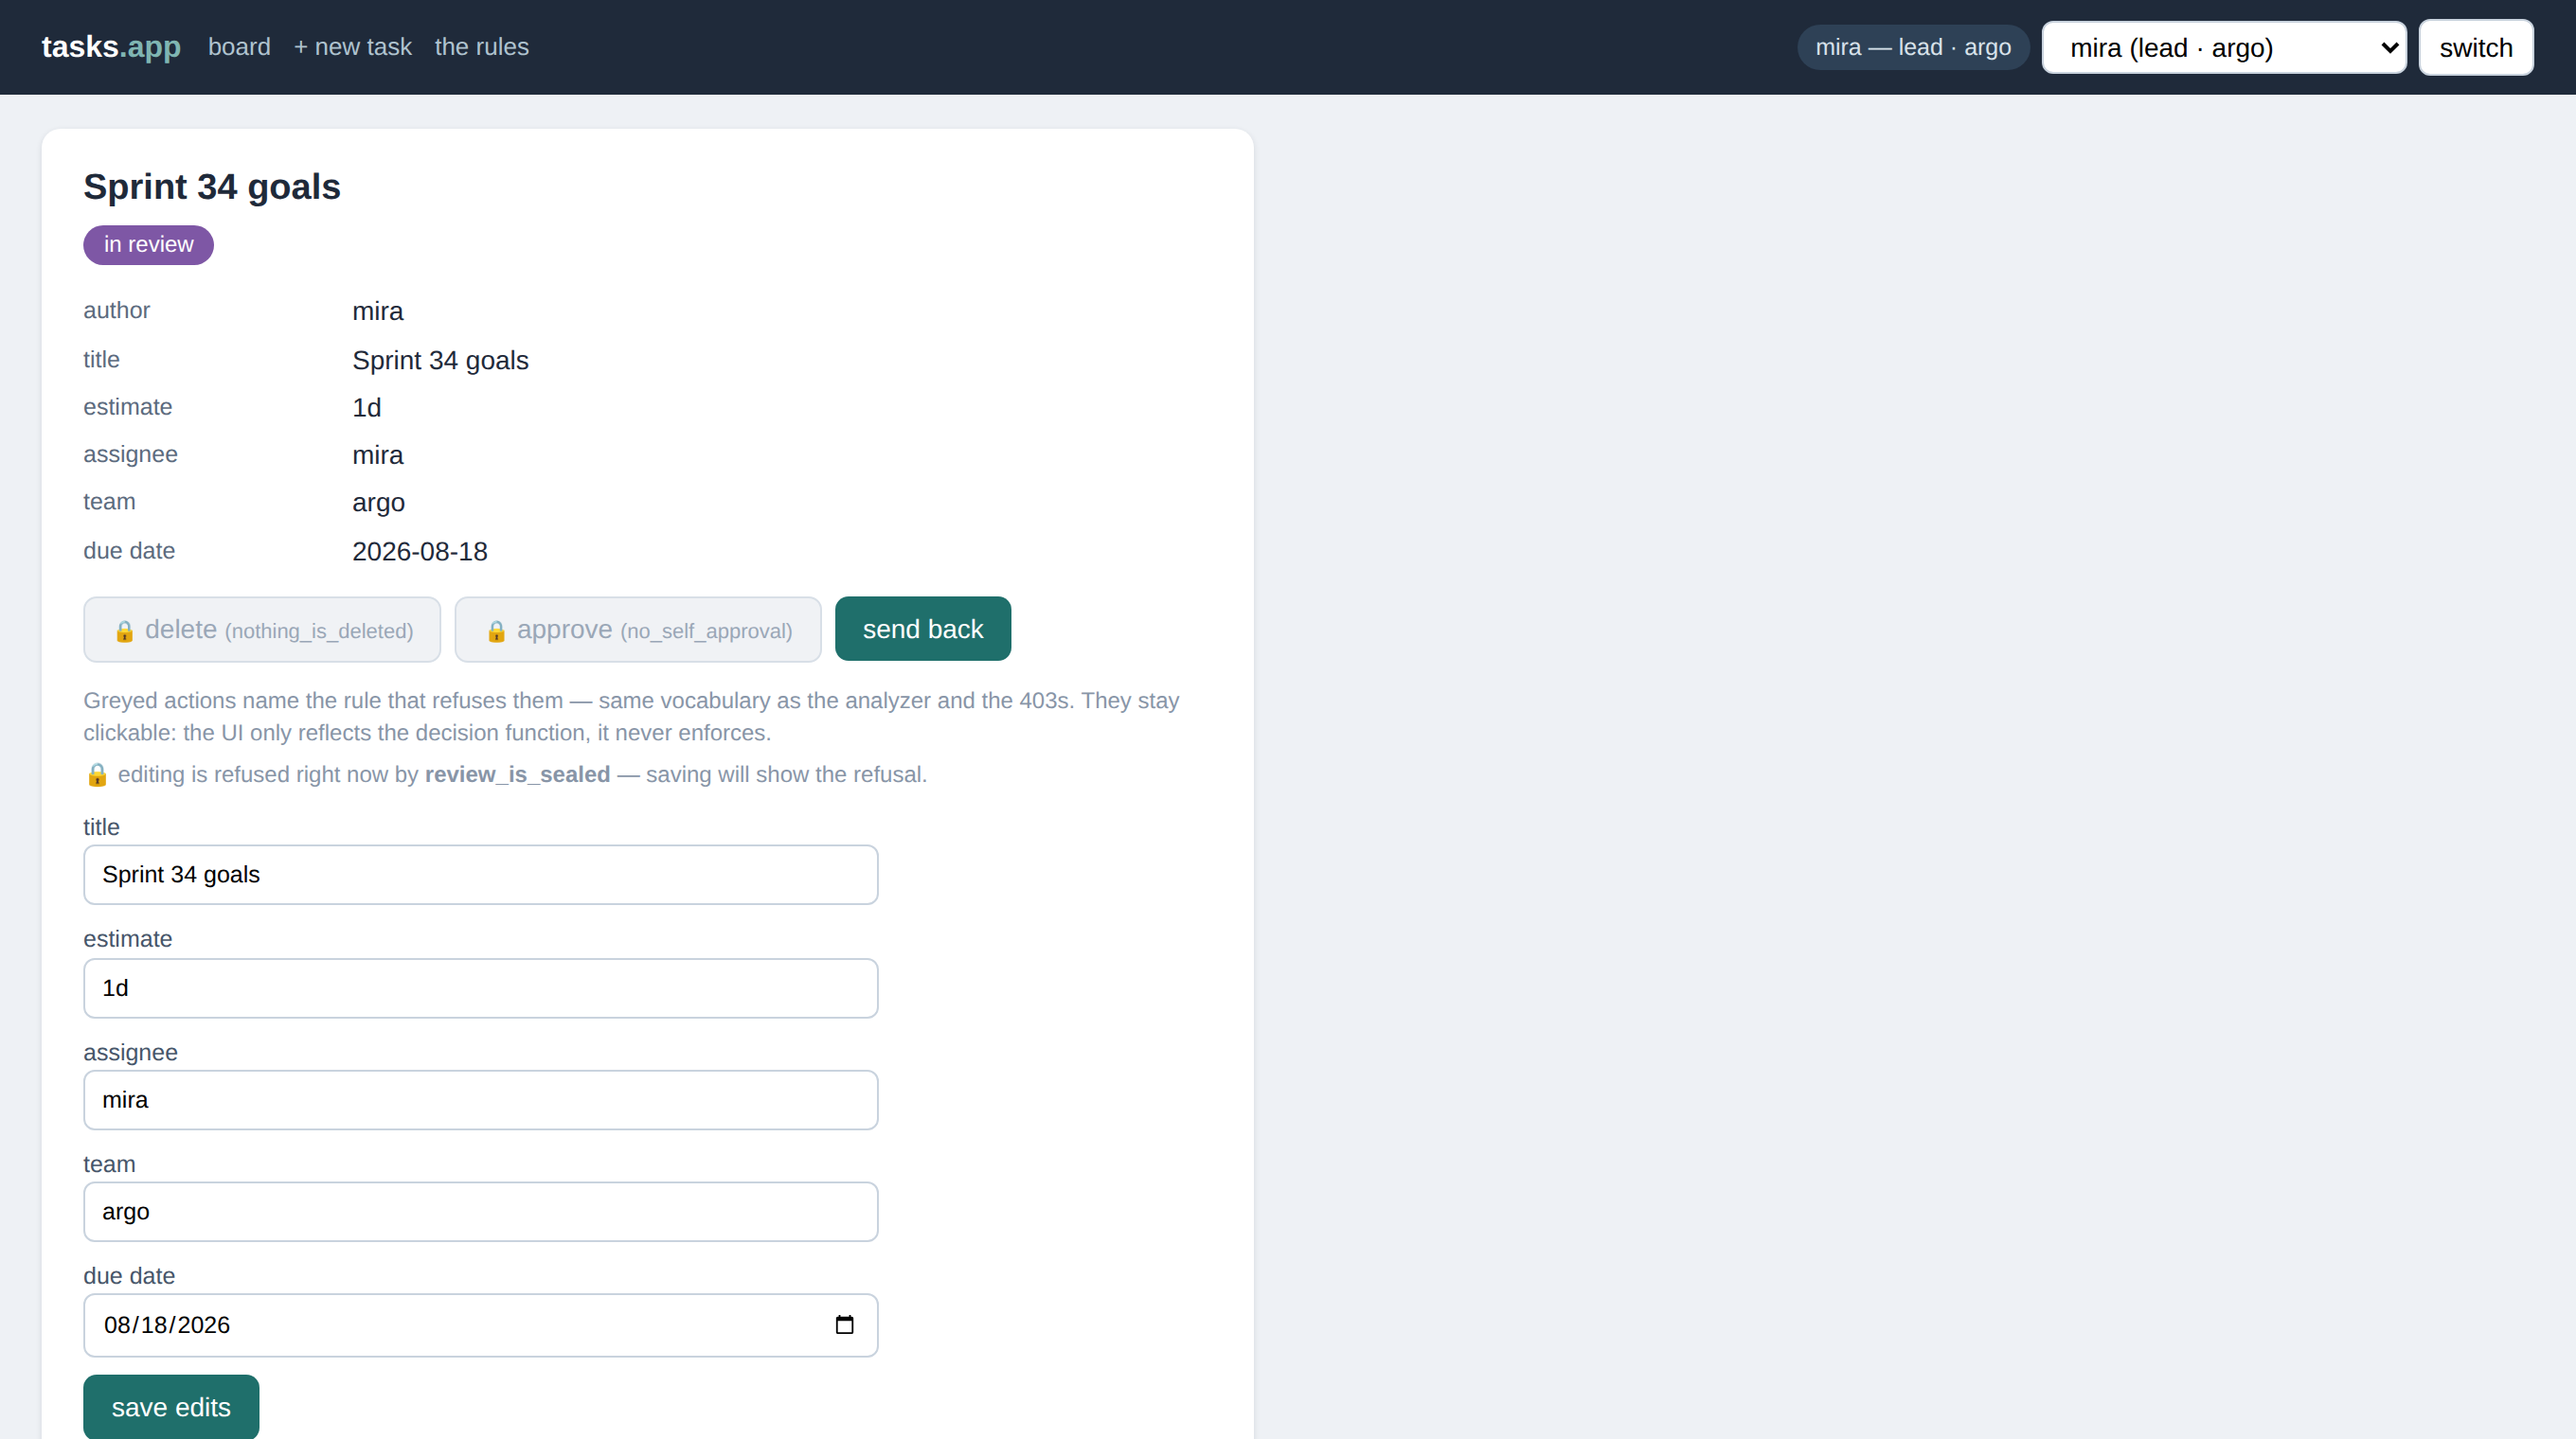
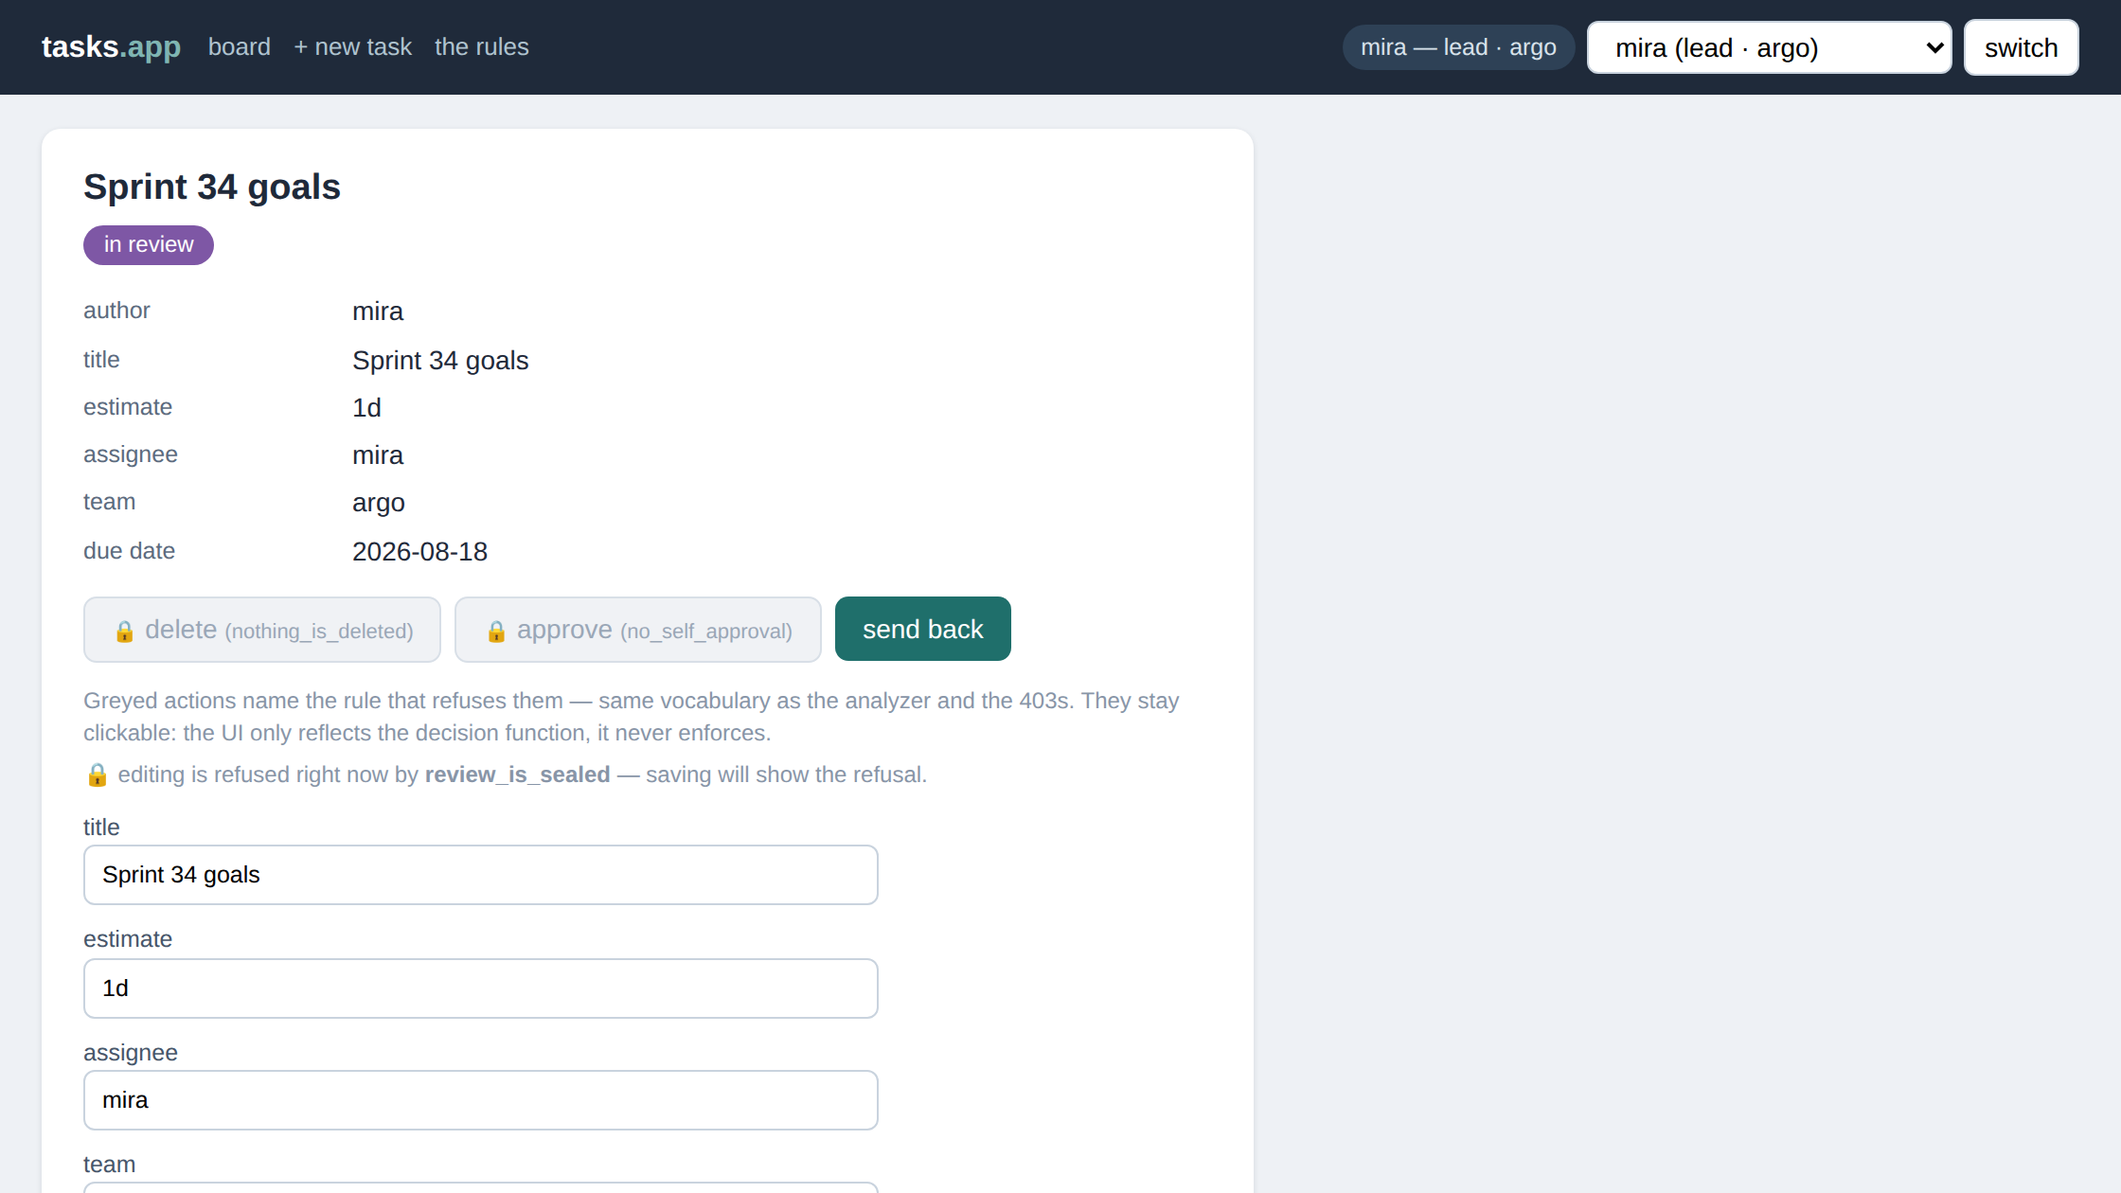
Screenshots: slide-friendly viewport (1120x630 @2x)
Claude-Session: https://claude.ai/code/session_01H972Z7iQyUj73WyNVy3wGB

diff --git a/examples/taskboard/screenshots.py b/examples/taskboard/screenshots.py
@@ -75,7 +75,7 @@ def main():
         with sync_playwright() as p:
             browser = p.chromium.launch(
                 executable_path="/opt/pw-browsers/chromium")
-            context = browser.new_context(viewport={"width": 1360, "height": 760},
+            context = browser.new_context(viewport={"width": 1120, "height": 630},
                                           device_scale_factor=2)
             page = context.new_page()
             base = f"http://127.0.0.1:{PORT}"
